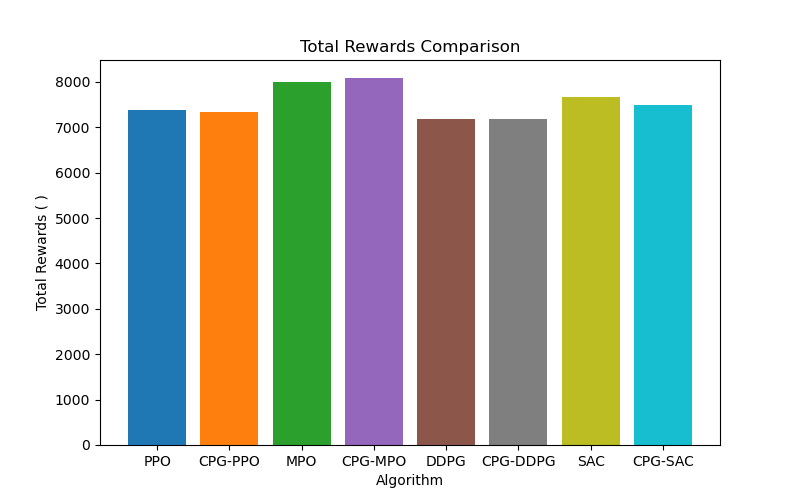
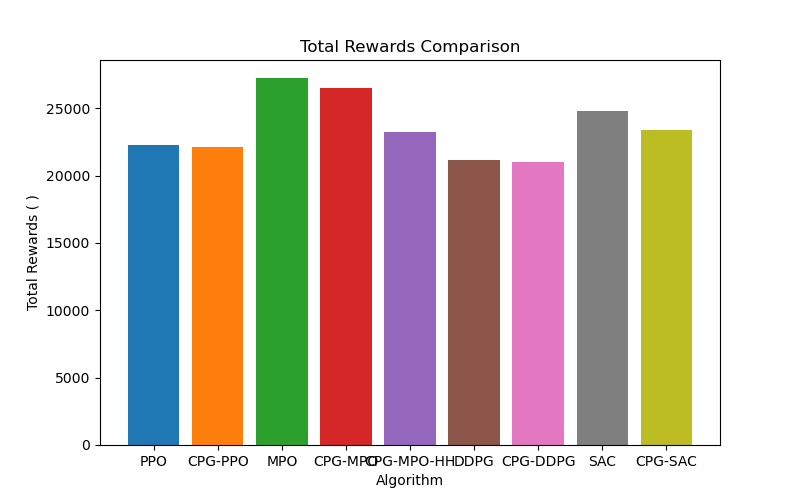
Fixes to Hyman Interface

diff --git a/Adaptive_RL/utils/logger.py b/Adaptive_RL/utils/logger.py
@@ -116,38 +116,47 @@ class Logger:
 
         # Save the data to the log file
         vals = [self.epoch_dict.get(key) for key in self.final_keys]
-        if new_keys:
-            if first_row:
-                log(f'Logging data to {self.log_file_path}')
-                try:
-                    os.makedirs(self.path, exist_ok=True)
-                except Exception:
-                    pass
-                with open(self.log_file_path, 'w') as file:
-                    file.write(','.join(self.final_keys) + '\n')
-                    file.write(','.join(map(str, vals)) + '\n')
-            else:
-                with open(self.log_file_path, 'r') as file:
-                    lines = file.read().splitlines()
-                old_keys = lines[0].split(',')
-                old_lines = [line.split(',') for line in lines[1:]]
-                new_indices = []
-                j = 0
-                for i, key in enumerate(self.final_keys):
-                    if key == old_keys[j]:
-                        j += 1
-                    else:
-                        new_indices.append(i)
-                assert j == len(old_keys)
-                for line in old_lines:
-                    for i in new_indices:
-                        line.insert(i, 'None')
-                with open(self.log_file_path, 'w') as file:
-                    file.write(','.join(self.final_keys) + '\n')
+
+        log_file_exists = os.path.exists(self.log_file_path)
+
+        if not log_file_exists:
+            if new_keys:
+                if first_row:
+                    log(f'Logging data to {self.log_file_path}')
+                    try:
+                        os.makedirs(self.path, exist_ok=True)
+                    except Exception:
+                        pass
+                    with open(self.log_file_path, 'w') as file:
+                        file.write(','.join(self.final_keys) + '\n')
+                        file.write(','.join(map(str, vals)) + '\n')
+                else:
+                    with open(self.log_file_path, 'r') as file:
+                        lines = file.read().splitlines()
+                    old_keys = lines[0].split(',')
+                    old_lines = [line.split(',') for line in lines[1:]]
+                    new_indices = []
+                    j = 0
+                    for i, key in enumerate(self.final_keys):
+                        if key == old_keys[j]:
+                            j += 1
+                        else:
+                            new_indices.append(i)
+                    assert j == len(old_keys)
                     for line in old_lines:
-                        file.write(','.join(line) + '\n')
+                        for i in new_indices:
+                            line.insert(i, 'None')
+                    with open(self.log_file_path, 'w') as file:
+                        file.write(','.join(self.final_keys) + '\n')
+                        for line in old_lines:
+                            file.write(','.join(line) + '\n')
+                        file.write(','.join(map(str, vals)) + '\n')
+            else:
+                with open(self.log_file_path, 'a') as file:
                     file.write(','.join(map(str, vals)) + '\n')
+
         else:
+            # Append the new row of data
             with open(self.log_file_path, 'a') as file:
                 file.write(','.join(map(str, vals)) + '\n')
 

diff --git a/train.py b/train.py
@@ -32,7 +32,7 @@ def parse_args():
     parser.add_argument('--lr_critic', type=float, default=3e-4, help='Learning rate for the critic.')
     parser.add_argument('--ent_coeff', type=float, default=0.00238306, help='Entropy coefficient for PPO or SAC.')
     parser.add_argument('--gamma', type=float, default=0.98, help='Discount factor for replay buffer')
-    parser.add_argument('--discount_normalizer', type=float, default=None, help='Discount factor for normalizer')
+    parser.add_argument('--decay_lr', type=float, default=None, help='Discount factor for normalizer')
     parser.add_argument('--clip_range', type=float, default=0.3, help='Clip range for PPO and MPO.')
     parser.add_argument('--lr_dual', type=float, default=3.56987e-04, help='Learning rate for dual variables (MPO).')
     parser.add_argument('--neuron_number', type=int, nargs='+', default=[256],
@@ -167,7 +167,7 @@ if __name__ == "__main__":
         clip_range = args['training'].get('clip_range', 0.0)
         lr_dual = args['training'].get('lr_dual', 0.0)
         gamma = args['training']['gamma']
-        discount_factor = args['training'].get('discount_factor', None)
+        decay_lr = args['training'].get('decay_lr', None)
         neuron_number = args['model']['neuron_number']
         layers_number = args['model']['layers_number']
         batch_size = args['training']['batch_size']
@@ -196,7 +196,7 @@ if __name__ == "__main__":
         clip_range = args.clip_range
         lr_dual = args.lr_dual
         gamma = args.gamma
-        discount_factor = args.discount_factor
+        decay_lr = args.decay_lr
         neuron_number = args.neuron_number
         layers_number = args.layers_number
         batch_size = args.batch_size
@@ -216,7 +216,7 @@ if __name__ == "__main__":
     save_steps = int(max_steps / 500)
 
     normalizer_flag = False
-    if discount_factor is not None:
+    if decay_lr is not None:
         normalizer_flag = True
 
     env_name, save_folder, log_dir = trials.get_name_environment(env_name, cpg_flag=cpg_flag,
@@ -234,11 +234,12 @@ if __name__ == "__main__":
                     learning_starts=learning_starts)
     elif training_algorithm == "PPO":
         agent = PPO(learning_rate=learning_rate, hidden_size=neuron_number, hidden_layers=layers_number,
-                    gamma=gamma, discount_factor=discount_factor, normalizer=normalizer_flag,
+                    gamma=gamma, decay_lr=decay_lr, normalizer=normalizer_flag,
                     batch_size=batch_size, entropy_coeff=ent_coeff, clip_range=clip_range)
     elif training_algorithm == "DDPG":
         agent = DDPG(learning_rate=learning_rate, batch_size=batch_size, learning_starts=learning_starts,
-                     noise_std=noise_std, hidden_size=neuron_number, hidden_layers=layers_number, replay_buffer_size=replay_buffer_size)
+                     noise_std=noise_std, hidden_size=neuron_number, hidden_layers=layers_number,
+                     replay_buffer_size=replay_buffer_size)
     else:
         agent = None
 

diff --git a/plot.py b/plot.py
@@ -3,6 +3,7 @@ import itertools
 import os
 import pathlib
 import time
+import glob
 
 import matplotlib as mpl
 from matplotlib import gridspec
@@ -72,12 +73,20 @@ def get_data(
     data = {}
 
     # List the log files in paths.
+    paths_tmp = paths.copy()
+    paths = []
+    for pattern in paths_tmp:
+        paths.extend(glob.glob(pattern))
+
     log_paths = []
     for path in paths:
         if os.path.isdir(path):
             log_paths.extend(pathlib.Path(path).rglob('log.*'))
-        elif path[-7:-3] == 'log.':
-            log_paths.append(path)
+        else:
+            # Use pathlib to handle paths and check if the file name starts with 'log.'
+            path_obj = pathlib.Path(path)
+            if path_obj.name.startswith('log.'):
+                log_paths.append(path_obj)
 
     # Load the data from the log files.
     for path in log_paths:
@@ -93,7 +102,7 @@ def get_data(
             x = df_seed[x_axis].values
             # The x axis should be sorted.
             if not np.all(np.diff(x) > 0):
-                logger.warning(f'Skipping unsorted {env} {agent} {seed}')
+                logger.warning(f'Skipping unsorted {env} {agent} {seed}, try removing last row or verify NaN data')
                 continue
             if x_min and x[-1] < x_min:
                 logger.warning(
@@ -271,7 +280,7 @@ def plot(
     envs = sorted(data.keys(), key=str.casefold)
     num_envs = len(envs)
     if num_envs == 0:
-        logger.error('No logs found.')
+        logger.error(f'No logs found in {paths}.')
         return
 
     # List the agents.

diff --git a/simulate.py b/simulate.py
@@ -74,7 +74,12 @@ def main_running():
             print("Video Recorded")
 
         elif experiment:
-            algos_compare = ['PPO', 'CPG-PPO', 'MPO', 'CPG-MPO', 'DDPG', 'CPG-DDPG', 'SAC', 'CPG-SAC']
+            algos = ['PPO', 'MPO', 'DDPG', 'SAC']
+            algos_compare = []  # Adding CPG and HH neurons
+            for algo in algos:
+                algos_compare.append(algo)
+                algos_compare.append(f'CPG-{algo}')
+                algos_compare.append(f'CPG-{algo}-HH')
             trained_algorithms = trials.search_trained_algorithms(env_name=env_name, algorithms_list=algos_compare)
             results = {}
 

diff --git a/MatsuokaOscillator/testing_main_cpg.py b/MatsuokaOscillator/testing_main_cpg.py
@@ -10,7 +10,7 @@ def matsuoka_main():
     # Parameters
     neural_net = False
     hh_neuron = True  # Running with hudgkin huxley neurons if True
-    num_oscillators = 1
+    num_oscillators = 3
     neuron_number = 2
     tau_r = 1
     tau_a = 6
@@ -18,7 +18,7 @@ def matsuoka_main():
     w12 = 2.5
     beta = 2.5
     dt = 0.0001
-    steps = 50
+    steps = 20
     weights = np.full(neuron_number, w12)
     time = np.linspace(0, steps * dt, steps)
 
@@ -94,6 +94,7 @@ def matsuoka_main():
             plt.legend()
             plt.grid(True)
             plt.show()
+
 
 if __name__ == "__main__":
     matsuoka_main()
